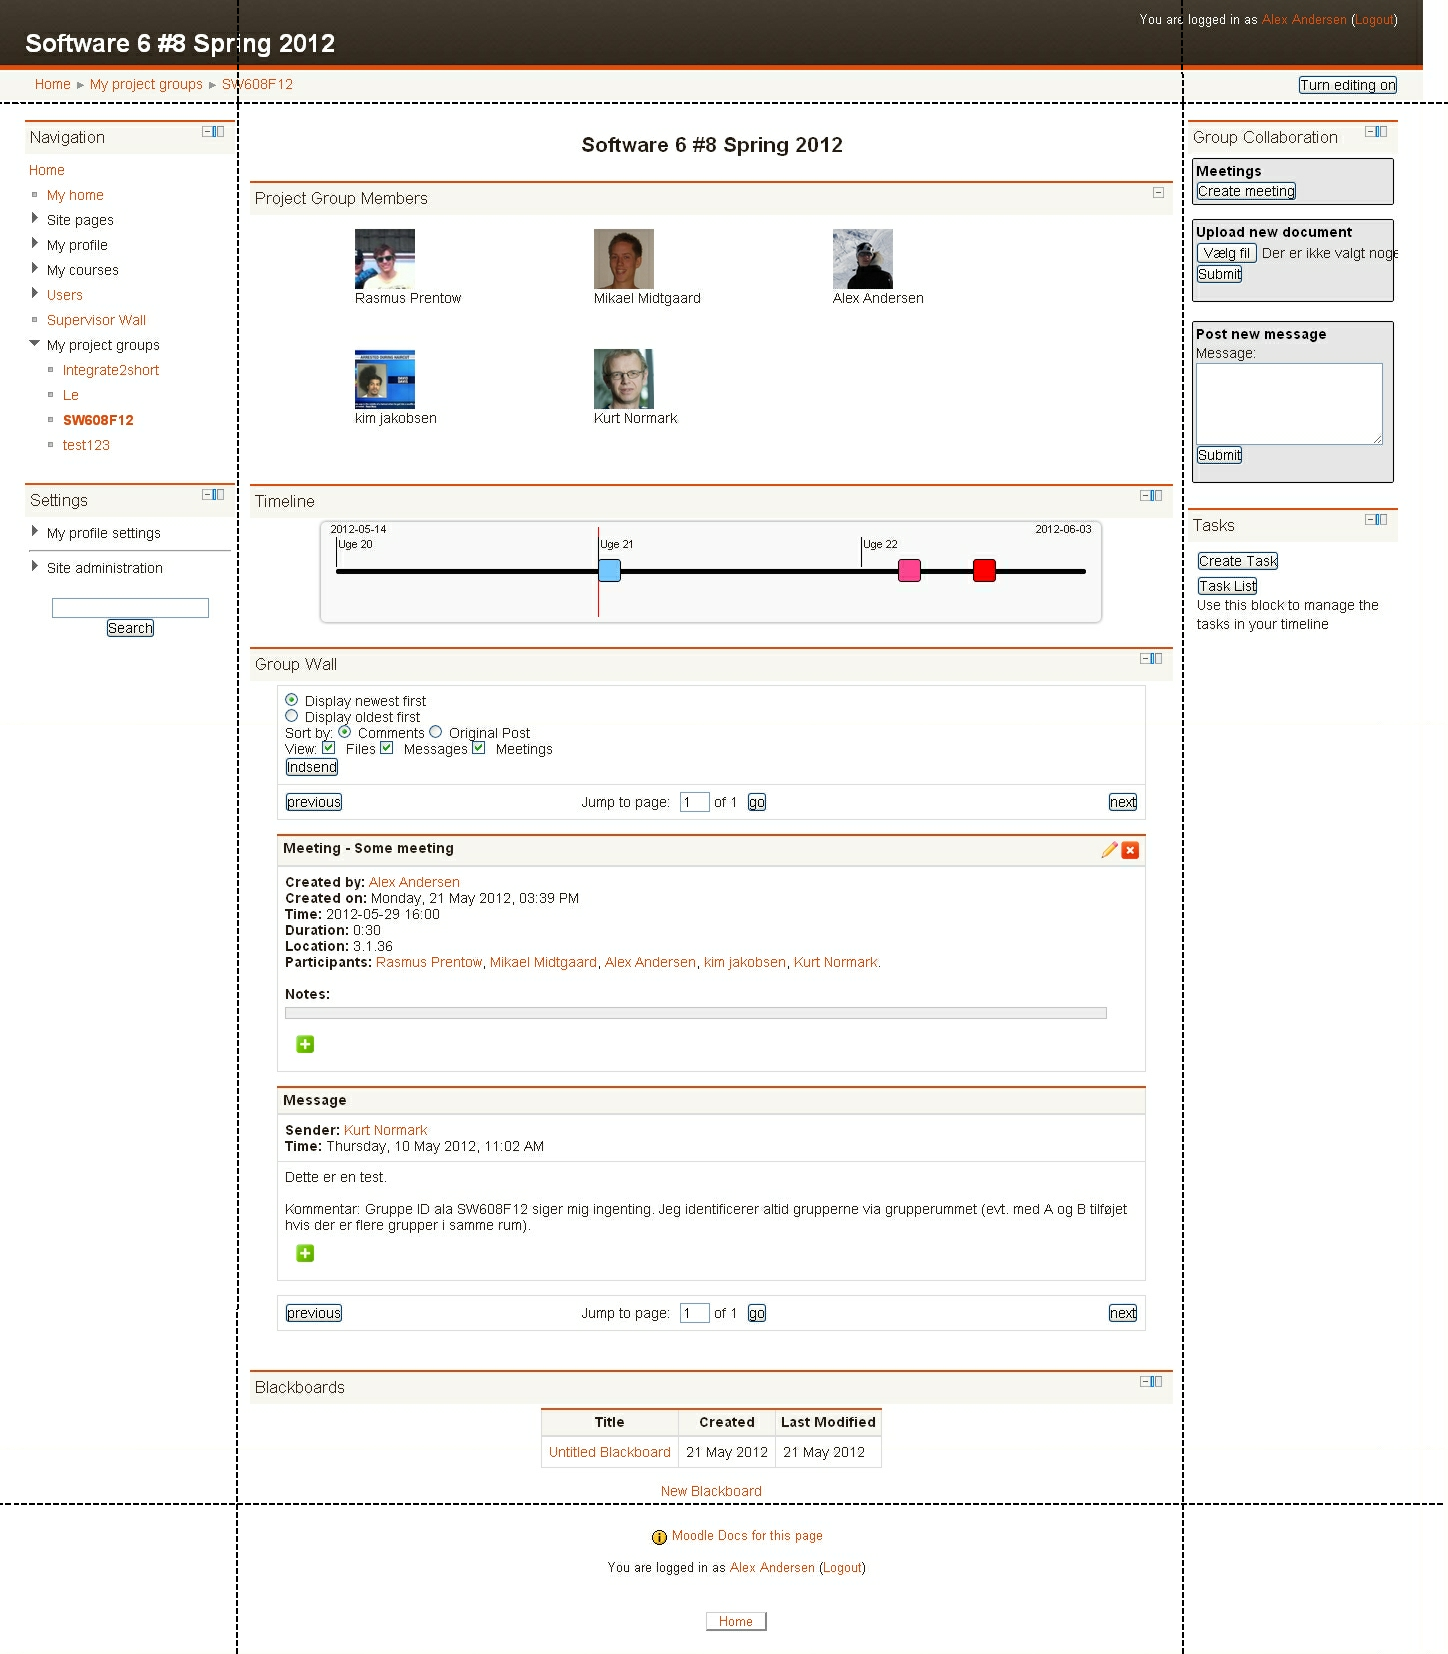
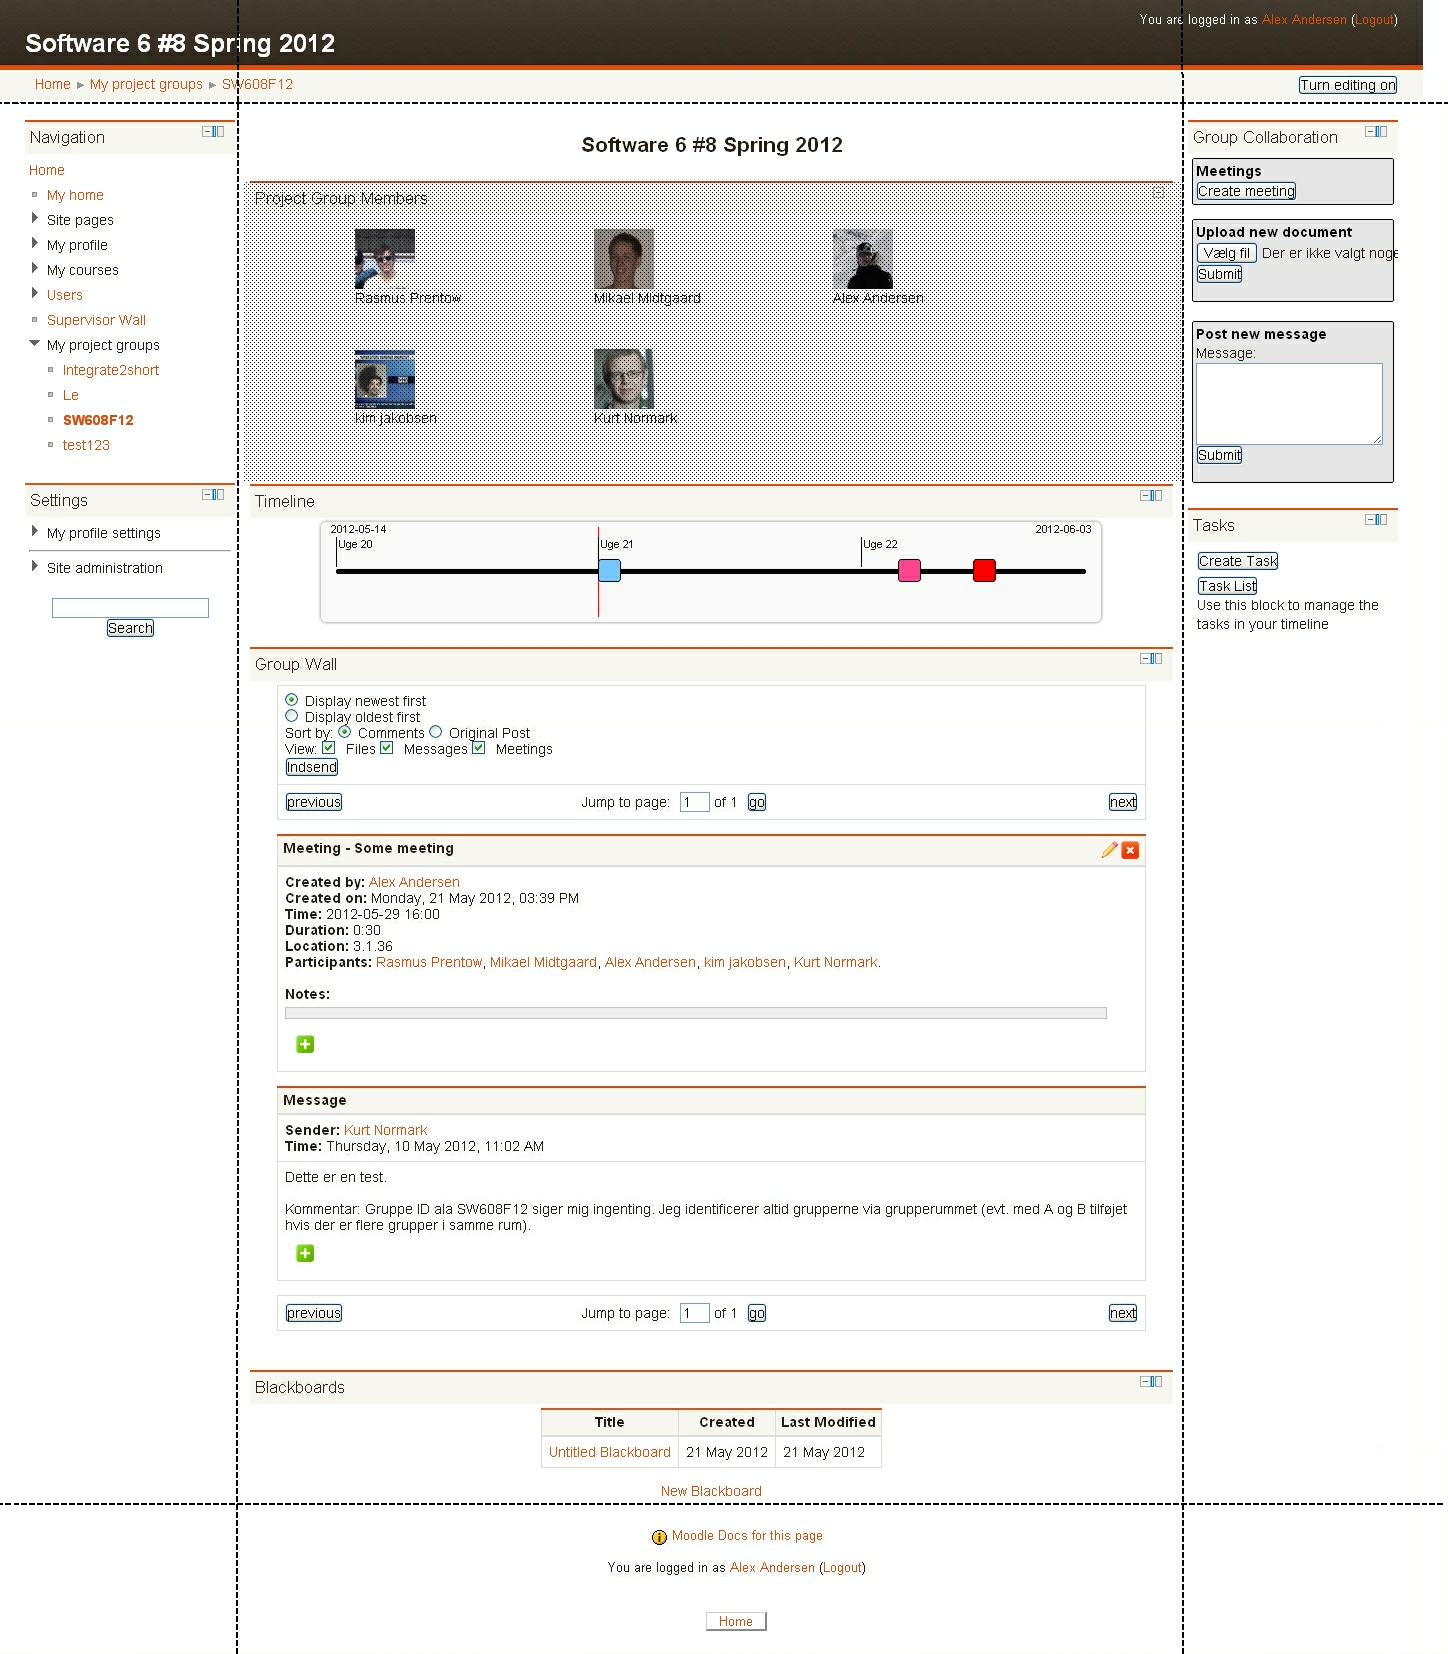
ssssd

Changed region(s): [[0.1865, 0.1233, 0.808, 0.2775]]

diff --git a/report/input/systempresentation.tex b/report/input/systempresentation.tex
@@ -1,35 +1,29 @@
 \chapter{System Presentation}
 \label{sub:page}
-The section presents how the project groups work from the perspective of the user. 
+\myTop{The chapter presents how the system works from the perspective of the user, which is key knowledge in order to comprehend the \nameref{chap:implementation}. 
+The chapter is divided in two sections, one presents the project group \viewroom[] and the other presents the administrative part. }
 
-The project group page is the virtual meeting place described in \secref{sec:projectgroup}.
-We decided to implement the room merely as a container for \block{}.
-Alternatively the functionality could be an integrated part of the page, but using \block s gives more flexibility to the users allowing them manage the layout of their own project group room. 
-A screenshot of a project group room can be seen in \figref{fig:projectgroupnoedit}. 
-In this project group room the blocks of the standard layout are seen.
-\begin{figure}[h]
+
+\input{input/systempresentation/projectgroupage}
+
+
+\section{Administration}
+\todo{Teksten på siden er copyet fra implementationen og skal rettes til}
+\todo{Der skal indsæættes SS af edit, og group list. Måske også group members list.}
+\todo{Kig evt. på billedet i ovenstaaende section, hvis du syntes det er grimt må du gerne lave det om}
+This section presents the system as seen and used by the administrative personnel.
+
+can be accessed through the site administration menu as seen in \figref{fig:navigation}.
+
+\begin{figure}[htb]
 	\centering
-		\includegraphics[width=\textwidth]{images/projectgroupnoedit.png}
-	\morscaption{The project group room}
-	\label{fig:projectgroupnoedit}
+		\includegraphics[scale=0.75]{images/admin-navigation.png}
+	\morscaption{The settings block, which contains the site administration menu} 
+	\label{fig:navigation}
 \end{figure}
 
-The project group room consist of three columns and three rows. 
-The screenshot illustrates the area boundaries by dashed lines. 
-%An illustrationThe page in edit mode can be seen in figure \figref{fig:projectgroupwithedit}.
-The three rows on the page are from the top; the header, the middle and the footer. 
-The header is standard Moodle and is only controlled by us to add a heading. 
-The heading shows the name of the project group. 
-The middle part is the actual page content and is further divided in three columns. 
-The left column is the standard navigation menu in Moodle and is not created by us, though it is extended by us.
-%We do not want anything to be added to this column to ensure that the page seem familiar to the user.
-The center and right columns both contain blocks.
-The center area is much wider than the left and right and can therefore contain bigger \block{}s. 
-The various blocks presented on the project groups page are described in \secref{sec:implprojectgroupblocks}. 
-If a user wants to edit the block layout for the project group room he can press the ``Turn editing on'' button. 
-This will add edit and move buttons to each block. 
-A new block is added in editing mode to allow for adding new blocks. 
-If a user edits the page, the change can be seen by all group members. 
-
-
-
+From here we provide a link to a list of all project groups and a link to a page, from where a new project group can be created.
+The page with the list of all project groups has a table with three columns: Short name, Full name, and Actions.
+As the name indicates Short name is a short name for a group. 
+The Short name also serves as a link to the project group page described in \secref{sub:page}.
+In the Actions column there are links to delete and edit the project group.

diff --git a/report/input/implementation.tex b/report/input/implementation.tex
@@ -1,11 +1,12 @@
 \chapter{Implementation}
+\label{chap:implementation}
 \myTop{In this chapter we describe how we implement the concepts described in \secref{chap:design}.
-%This chapter is divided into three sections where the two main parts of our system are described, namely \nameref{sec:projGroupRoomImpl} and \nameref{sec:manProjGrpImpl}.
+This chapter is divided into three sections where the three main parts of our system are described, namely \nameref{sec:pglib},  \nameref{sec:projGroupRoomImpl}, and \nameref{sec:manProjGrpImpl}.
 The implementation details presented here are paramount for something.
 }
 From section \secref{sec:architecture} we know there is three part which must be implemented by us. 
 The administration tool to manage project group, the project group, and the project group \viewroom. 
-The administration tool is implemented as an admin tool, which as described in \section{platform} is a special moodle plugin type. 
+The administration tool is implemented as an admin tool, which, as described in \secref{sec:platform}, is a special Moodle plugin type. 
 Project groups can be implemented as courses (see \secref{sub:courses}) by creating a new view for the course page. 
 Hereby solving the problem of both implementing project groups and the aforementioned project group \viewroom.
 This will make it possible to use activity modules, described in \ref{par:activitymodules}, in the project group. 
@@ -15,19 +16,23 @@ Instead we can use blocks for the functionality.
 The later approach is chosen. 
 The local plugin includes both the project group library and the project group  \viewroom. 
 The view is implemented in the file \moodlefile{/local/projectgroup/view.php} and  the library is in the file \moodlefile{/local/projectgroup/lib.php}. 
-The library includes several other files. 
-One for each sub group and several helper files. 
+The library includes several other files.% such as various helper files and one for each of the other three peer-groups. 
+One for each sub group, excluding ours, and several helper files. 
+
 
 \section{Project group library}
+\label{sec:pglib}
 The project group library is build up by several files and consist of several functions and classes.
-It is shared between all subgroups. 
+The library itself is created by our peer group, but it includes a file from each of the other groups. 
 This section only explains the functionality implemented by our subgroup. 
-%% Lines of codes
-%% How many functions
+The library consist of $~300$ lines of code, including comments. 
+All the functionality in the library is helping functionality for both the admin tool and the view. 
 
+In the later sections we refer to several functions, which are all located in the library. 
 In the following sections is how we put our project group into a moodle context and how we ensure permissions.
 
 \input{input/implementation/overwriteContext.tex}
+\FloatBarrier
 \input{input/implementation/ensuringpermissions}
 
 \FloatBarrier

diff --git a/report/input/systempresentation/projectgroupage.tex b/report/input/systempresentation/projectgroupage.tex
@@ -1,0 +1,36 @@
+
+The project group page is the virtual meeting place described in \secref{sec:projectgroup}.
+We decided to implement the room merely as a container for \block{}.
+Alternatively the functionality could be an integrated part of the page, but using \block s gives more flexibility to the users allowing them manage the layout of their own project group room. 
+A screenshot of a project group room can be seen in \figref{fig:projectgroupnoedit}. 
+In this project group room the blocks of the standard layout are seen.
+\begin{figure}[h]
+	\centering
+		\includegraphics[width=\textwidth]{images/projectgroupnoedit.png}
+	\morscaption{The project group room}
+	\label{fig:projectgroupnoedit}
+\end{figure}
+
+The project group room consist of three columns and three rows. 
+The screenshot illustrates the area boundaries by dashed lines. 
+%An illustrationThe page in edit mode can be seen in figure \figref{fig:projectgroupwithedit}.
+The three rows on the page are from the top; the header, the middle and the footer. 
+The header is standard Moodle and is only controlled by us to add a heading. 
+The heading shows the name of the project group. 
+The middle part is the actual page content and is further divided in three columns. 
+The left column is the standard navigation menu in Moodle and is not created by us, though it is extended by us.
+%We do not want anything to be added to this column to ensure that the page seem familiar to the user.
+The center and right columns both contain blocks.
+The center area is much wider than the left and right and can therefore contain bigger \block{}s. 
+The various blocks presented on the project groups page are described in \secref{sec:implprojectgroupblocks}. 
+If a user wants to edit the layout for the project group room he can press the ``Turn editing on'' button. 
+This will add edit and move buttons to each \block{}, allowing the user to remove, add, move, and edit \block{}s. 
+A special ``add new block''-block is added in editing mode to allow for adding new \block[]. 
+If a user edits the page, the change can be seen by all group members. 
+
+To specify on the figure what a \block{} is we have grayoed out one of the \block{}s.
+The grayed out area is the members block and is created by our group. 
+The block shows a photo and the name of each member of the group. 
+
+
+

diff --git a/report/input/implementation/manageProjectGroups.tex b/report/input/implementation/manageProjectGroups.tex
@@ -6,20 +6,7 @@ Administrators need to have the ability to add, edit, and delete project groups.
 The administration tools we provide have to be easy and fast to use, since they potentially have to be used many times.
 This section describes how we implement the administration tools needed to manage project groups.
 
-The features we provide to manage project groups are known as administration tools in Moodle and can be accessed through the site administration menu as seen in \figref{fig:navigation}.
-
-\begin{figure}[htb]
-	\centering
-		\includegraphics[scale=0.75]{images/admin-navigation.png}
-	\morscaption{The settings block, which contains the site administration menu} 
-	\label{fig:navigation}
-\end{figure}
-
-From here we provide a link to a list of all project groups and a link to a page, from where a new project group can be created.
-The page with the list of all project groups has a table with three columns: Short name, Full name, and Actions.
-As the name indicates Short name is a short name for a group. 
-The Short name also serves as a link to the project group page described in \secref{sub:page}.
-In the Actions column there are links to delete and edit the project group.
+The features we provide to manage project groups are known as administration tools in Moodle.
 
 The edit page has the same source files as the add page.
 The only difference between editing a group and adding a group is that when editing a group a HTTP parameter, $id$, is set.

diff --git a/report/input/implementation/projectGroupRoom.tex b/report/input/implementation/projectGroupRoom.tex
@@ -1,11 +1,11 @@
-\section{Project Group Room}
+\section{Project Group \viewroom[c]}
 \label{sec:projGroupRoomImpl}
 In this section the actual implementation of the project group room, its custom blocks, how the context system is used to implement our own context to allow better administration of blocks and capabilities, and the navigation to the users project groups is described.
 The section presents how the project groups work from the perspective of the user. 
 
 
 
-The task of securing that only members of the project group can edit and view are maintained by the project group room and is described in \secref{sec:projectgrouproommanagerights}. 
+%The task of securing that only members of the project group can edit and view are maintained by the project group room and is described in \secref{sec:projectgrouproommanagerights}. 
 
 
 
